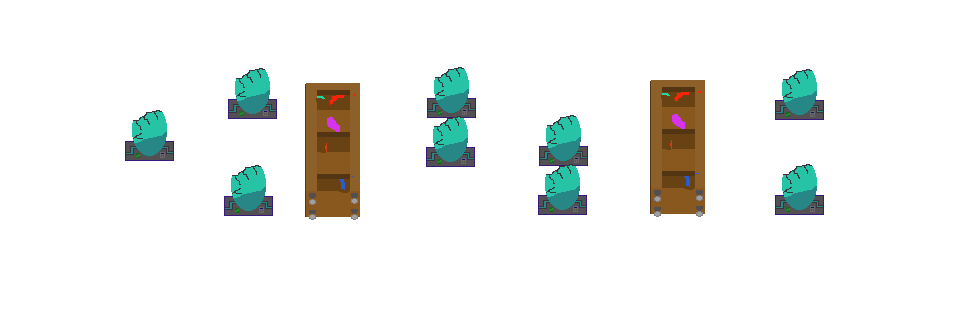
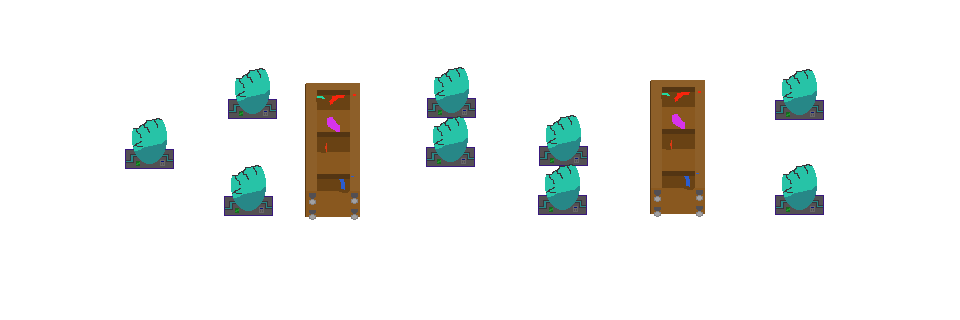
Alteração do mapa da fase um

Changed region(s): [[0.125, 0.3438, 0.1875, 0.5312]]

diff --git a/src/scenes/FaseUm.js b/src/scenes/FaseUm.js
@@ -5,9 +5,10 @@ export class FaseUm extends Phaser.Scene {
 
     preload () {
         //carregamento das imagens e sprites usados durante a fase1
-        this.load.image('fundo', 'assets/fases/faseUm/fundoFase1.png');
+        this.load.image('fundo', 'assets/fases/faseUm/fundoFaseUm.png');
         this.load.spritesheet('asimov', 'assets/personagens/asimov.png', { frameWidth: 32, frameHeight: 32 });
-        this.load.image('pedra', 'assets/objetos/faseUm/obstaculosPedra.png');
+        //this.load.image('pedra', 'assets/objetos/faseUm/obstaculosPedra.png');
+        this.load.image( 'obstaculos', 'assets/objetos/faseUm/obstáculosFaseUm.png')
         this.load.spritesheet('barra', 'assets/objetos/faseUm/barraProgresso.png', { frameWidth: 256, frameHeight: 128 });
         this.load.spritesheet('bauAnimado', 'assets/objetos/faseUm/bau.png', { frameWidth: 128, frameHeight: 128 });
         this.load.spritesheet('envelope', 'assets/objetos/faseUm/envelopes.png', { frameWidth: 320, frameHeight: 320 });
@@ -38,7 +39,7 @@ export class FaseUm extends Phaser.Scene {
         this.cameraBalanco = 0;
         this.cameraBalancoAlvo = 0;
         
-        this.obstaculosJuntos = this.add.image(0, height / 2, "pedra").setScale(4.0).setOrigin(0, 0.5); //adiciona a imagem das pedras e troncos e define onde eles estarão localizados
+        this.obstaculosJuntos = this.add.image(0, height / 2, "obstaculos").setScale(4.0).setOrigin(0, 0.5); //adiciona a imagem dos obstáculos e define onde eles estarão localizados
         this.bau = this.add.sprite(this.mapa.displayWidth - 100, height / 2 - 50, "bauAnimado", 0).setScale(1.5); //bau está localizado 100 pixels da esquerda do tamanho da imagem do fundo
         this.bauAberto = false; //fechado até que o jogador interaja com ele
 
@@ -49,18 +50,18 @@ export class FaseUm extends Phaser.Scene {
         this.pergaminho = this.add.sprite(width - 500, height / 2, "pergaminho", 0).setScale(1.5).setScrollFactor(0).setDepth(102).setVisible(false);
 
         //============================================================================ PRECISA CORRIGIR
-        this.pedraCaixaColisão = null;
+        this.obstaculosCaixaColisão = null;
         try {
-            const imgPedra = this.textures.get("pedra").getSourceImage(); //precisa da imagem HTML nativa para desenhá-la em um canvas e ler seus pixels.
-            const canvasPedra = document.createElement("canvas"); //cria um elemento canvas HTML invisivel na memória
-            canvasPedra.width = imgPedra.width;
-            canvasPedra.height = imgPedra.height;
-            this.pedraCaixaColisao = canvasPedra.getContext("2d"); //cria um contexto 2D
-            this.pedraCaixaColisao.drawImage(imgPedra, 0, 0); //desenha a imagem no canvas invisivel
+            const imgObstaculos = this.textures.get("obstaculos").getSourceImage(); //precisa da imagem HTML nativa para desenhá-la em um canvas e ler seus pixels.
+            const canvasObstaculos = document.createElement("canvas"); //cria um elemento canvas HTML invisivel na memória
+            canvasObstaculos.width = imgObstaculos.width;
+            canvasObstaculos.height = imgObstaculos.height;
+            this.obstaculosCaixaColisao = canvasObstaculos.getContext("2d"); //cria um contexto 2D
+            this.obstaculosCaixaColisao.drawImage(imgObstaculos, 0, 0); //desenha a imagem no canvas invisivel
         } catch (e) {
             console.warn("Problema no sistema Canvas", e);
         }
-        this.pedraScale = 4.0;
+        this.obstaculosScale = 4.0;
         //==========================================================================
 
         this.barra = this.add.sprite(width / 2, 150, "barra").setScale(3).setScrollFactor(0).setDepth(50); //barra de progresso da fase
@@ -152,7 +153,7 @@ export class FaseUm extends Phaser.Scene {
             this.asimov.setVelocityY(0); //velocidade Y é sempre 0
             if (Phaser.Input.Keyboard.JustDown(this.keySpace)) { //movimento de subida do pulo com o aperto do SPACE
                 this.pulando = true;
-                this.asimov.setVelocity(280, -280); //personagem movimenta 280px para frente e 280 para cima
+                this.asimov.setVelocity(350, -280); //personagem movimenta 280px para frente e 280 para cima
             }
         }
         if (Phaser.Input.Keyboard.JustDown(this.teclaE) && this.pergaminhoAberto) { //assim que o jogador apertar a tecla E e o pergaminho está true é para mudar de de arquivo js
@@ -214,7 +215,7 @@ export class FaseUm extends Phaser.Scene {
                     this.baterObstaculos(this.asimov, this.obstaculosJuntos); //aciona função de sobreposição
                     break;
                 }
-                // cor específica #312e2e (bloqueia também durante o pulo)
+                // cor específica #39197e (bloqueia também durante o pulo)
                 if (tipo === 'cinzaPulo' /*&& this.pulando*/) {
                     this.baterObstaculos(this.asimov, this.obstaculosJuntos);
                     break;
@@ -230,11 +231,11 @@ export class FaseUm extends Phaser.Scene {
 
     //função que recebe a coordenada x e y e verifica a cor do pixel de contato
     sobrepoeObstaculo(xMundo, yMundo) {
-        if (!this.pedraCaixaColisao) return false; //proteção contra crash
+        if (!this.obstaculosCaixaColisao) return false; //proteção contra crash
 
         const { height } = this.sys.game.config; //acessa a propriedade de altura da configuração do game
-        const img = this.textures.get("pedra").getSourceImage(); //permite ler os pixels da imagem para colisão pixel a pixel
-        const scale = this.pedraScale;
+        const img = this.textures.get("obstaculos").getSourceImage(); //permite ler os pixels da imagem para colisão pixel a pixel
+        const scale = this.obstaculosScale;
         const topLeftY = height / 2 - img.height * scale / 2;
 
         const texX = (xMundo - 0) / scale; //pega a coordenada do asimov no eixo x
@@ -242,11 +243,11 @@ export class FaseUm extends Phaser.Scene {
 
         if (texX < 0 || texY < 0 || texX >= img.width || texY >= img.height) return false; //se as coordenadas estiverem fora da imagem ou menores que zero retorna falso que é sem colisão
 
-        const pixel = this.pedraCaixaColisao.getImageData(Math.floor(texX), Math.floor(texY), 1, 1).data; //variável que recebe método que extrai dados de pixels de uma região e retorna um array com 4 valores R, G, B, A
+        const pixel = this.obstaculosCaixaColisao.getImageData(Math.floor(texX), Math.floor(texY), 1, 1).data; //variável que recebe método que extrai dados de pixels de uma região e retorna um array com 4 valores R, G, B, A
         const [r, g, b, a] = pixel; //recebe o array de cores do pixel
         if (a <= 80) return false; //se o pixel for transparente, não há colisão
 
-        // Cor especial #2b2b2b: bloqueia também durante o pulo
+        // Cor especial #39197e: bloqueia também durante o pulo
         const corPulo =
             Math.abs(r - 43) < 5 &&
             Math.abs(g - 43) < 5 &&

diff --git a/src/scenes/FaseDois.js b/src/scenes/FaseDois.js
@@ -11,6 +11,8 @@ export class FaseDois extends Phaser.Scene {
     }
 
     create () {
+        this.Principal = this.physics.add.sprite(400, 300, "sophia");
+        this.cursors = this.input.keyboard.createCursorKeys();
         // Configurações da animação
     
     if (!this.anims.exists("left")) {
@@ -50,37 +52,35 @@ export class FaseDois extends Phaser.Scene {
     }
   }
 
-    }
+    
 
-    upload () {
-        // Cria a movimentação de Sophia de acordo com o personagem e carrega seu Sprite
-    this.Principal.setVelocity(0, 0);
+    update () {
+            // Cria a movimentação de Sophia de acordo com o personagem e carrega seu Sprite
+        this.Principal.setVelocity(0, 0);
 
-    let velocidade = 150;
-    let movimentacao = false;
+        let velocidade = 150;
+        let movimentacao = false;
 
-    if (this.cursors.left.isDown) {
-      this.Principal.setVelocityX(-velocidade);
-      this.Principal.anims.play("left", true);
-      movimentacao = true;
-    } else if (this.cursors.right.isDown) {
-      this.Principal.setVelocityX(+velocidade);
-      this.Principal.anims.play("right", true);
-      movimentacao = true;
-    }
+        if (this.cursors.left.isDown) {
+        this.Principal.setVelocityX(-velocidade);
+        this.Principal.anims.play("left", true);
+        movimentacao = true;
+        } else if (this.cursors.right.isDown) {
+        this.Principal.setVelocityX(+velocidade);
+        this.Principal.anims.play("right", true);
+        movimentacao = true;
+        }
 
-    if (this.cursors.up.isDown) {
-      this.Principal.setVelocityY(-velocidade);
-      if (!movimentacao) this.Principal.anims.play("back", true);
-      movimentacao = true;
-    } else if (this.cursors.down.isDown) {
-      this.Principal.setVelocityY(+velocidade);
-      if (!movimentacao) this.Principal.anims.play("front", true);
-      movimentacao = true;
-    }
+        if (this.cursors.up.isDown) {
+        this.Principal.setVelocityY(-velocidade);
+        if (!movimentacao) this.Principal.anims.play("back", true);
+        movimentacao = true;
+        } else if (this.cursors.down.isDown) {
+        this.Principal.setVelocityY(+velocidade);
+        if (!movimentacao) this.Principal.anims.play("front", true);
+        movimentacao = true;
+        }
 
-    if (!movimentacao) this.Principal.anims.stop(); // Para a animação se o player soltar as teclas
+        if (!movimentacao) this.Principal.anims.stop(); // Para a animação se o player soltar as teclas
 
-    } 
-
-
+    } }

diff --git a/main.js b/main.js
@@ -3,7 +3,7 @@ import { Scene01 } from "./src/scenes/sceneOne.js";
 import { SceneFuturo } from "./src/scenes/sceneFuturo.js"
 import { Scene02 } from "./src/scenes/sceneTwo.js";
 import { FaseUm } from "./src/scenes/FaseUm.js";
-import { FaseDois } from ".src/scenes/FaseDois.js"; 
+import { FaseDois } from "./src/scenes/FaseDois.js"; 
 
 const config = {
     type: Phaser.AUTO,
@@ -24,7 +24,7 @@ const config = {
         }
     },
 
-    scene: [WelcomeScene, Scene01, SceneFuturo, FaseUm, Scene02 ]
+    scene: [WelcomeScene, Scene01, SceneFuturo, FaseUm, Scene02, FaseDois ]
 };
 
 const game = new Phaser.Game(config);
